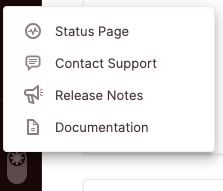
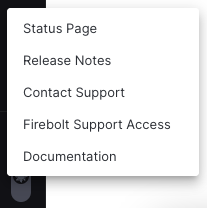
feat(support_access): add description (FIR-33131) (#190)
* feat(support_access): add description (FIR-33131)

fix launching local website as well

* chore(review): update wording (FIR-33131)

Changed region(s): [[0.0, 0.0, 0.9855, 1.0], [0.087, 0.2618, 0.6957, 0.3665], [0.087, 0.1047, 0.5797, 0.2094]]

diff --git a/docs/Reference/help-menu.md b/docs/Reference/help-menu.md
@@ -64,5 +64,38 @@ To create a case:
 ### Release Notes
 The Release Notes link brings you to Firebolt's [latest version release notes](release-notes/release-notes.md).
 
+### Firebolt Support Access
+Firebolt Support Access allows you to control the access of Firebolt's support team to your account.
+
+For new accounts support access is enabled by default, still you can revoke it at any time.
+
+All activity of the support team is logged and can be viewed in the [query history](../sql_reference/information-schema/engine-query-history) same as for other users.
+
+To grant access:
+1. Select "Firebolt Support Access"
+2. A support access form will appear, with the following information populated **automatically**:
+    <br>a. **Account Name**
+    <br>b. **Duration**
+    <br>c. **Assign Roles**
+3. Fill in the following:
+    <br>**Duration** - please choose the duration of the support access. Once the duration expires, the access will be automatically revoked.
+    <br>**Assign Roles** - please choose the role(s) you would like to assign to the support team. Their access will be limited to the roles you assign. You can create dedicated role following the [instructions here](../Guides/security/rbac#ui). Please, also notice that the support team will have full access to the organization level data.
+4. Select "Grant Access"
+
+Once granted, you will see additional icon in the bottom left corner of the screen, indicating that Firebolt's support team has access to your account.
+
+![Support Access](../assets/images/support_access_menu.png)
+
+To edit access:
+1. Select the support access icon in the bottom left corner of the screen and click on "Manage access" button. (Alternatively you can open same screen by clicking on "Firebolt Support Access" in the Help menu)
+2. Select "Edit Access" button.
+3. Make the necessary changes and click "Update Access".
+
+To revoke access:
+1. Select the support access icon in the bottom left corner of the screen and click on "Manage access" button. (Alternatively you can open same screen by clicking on "Firebolt Support Access" in the Help menu)
+2. Select "Revoke Access" button.
+
+Once revoked, the support access icon will disappear from the bottom left corner of the screen.
+
 ### Documentation
 The Documentation link brings you to Firebolt's docs (where you are now!)
